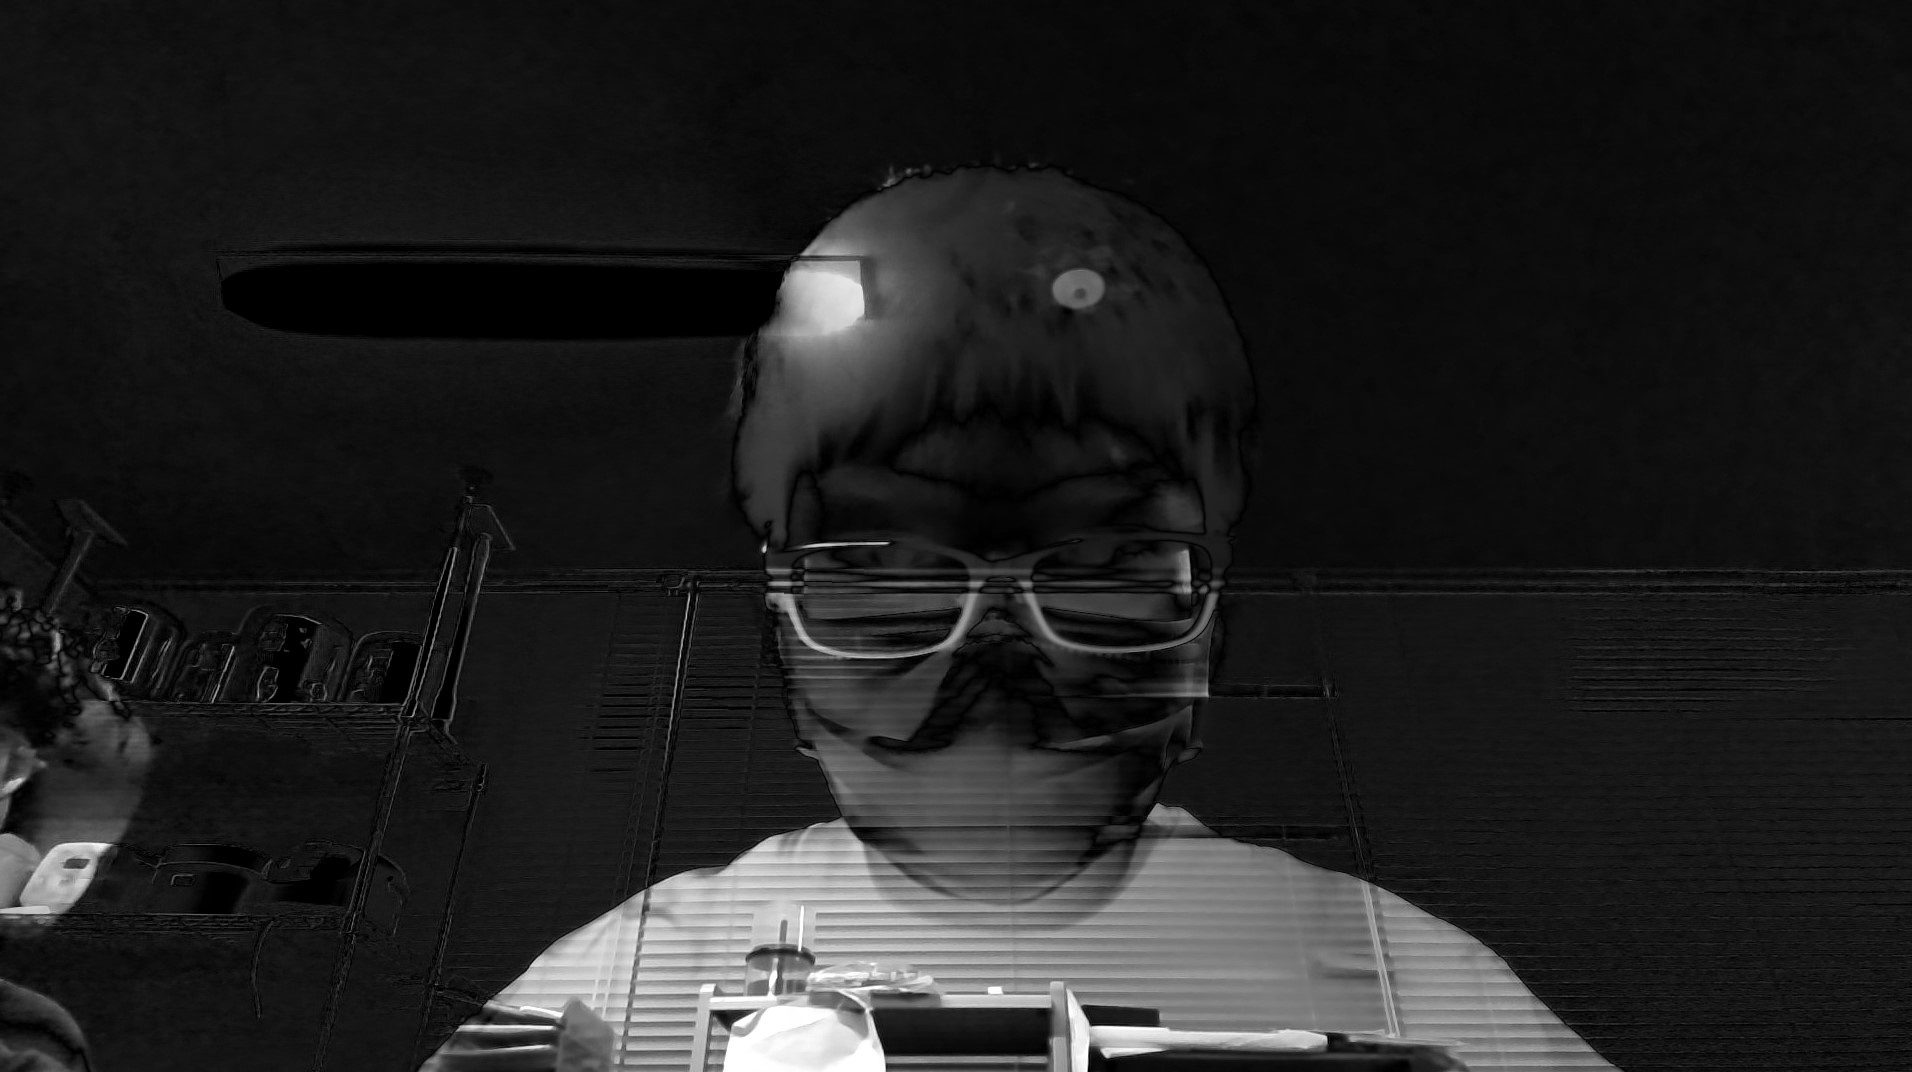
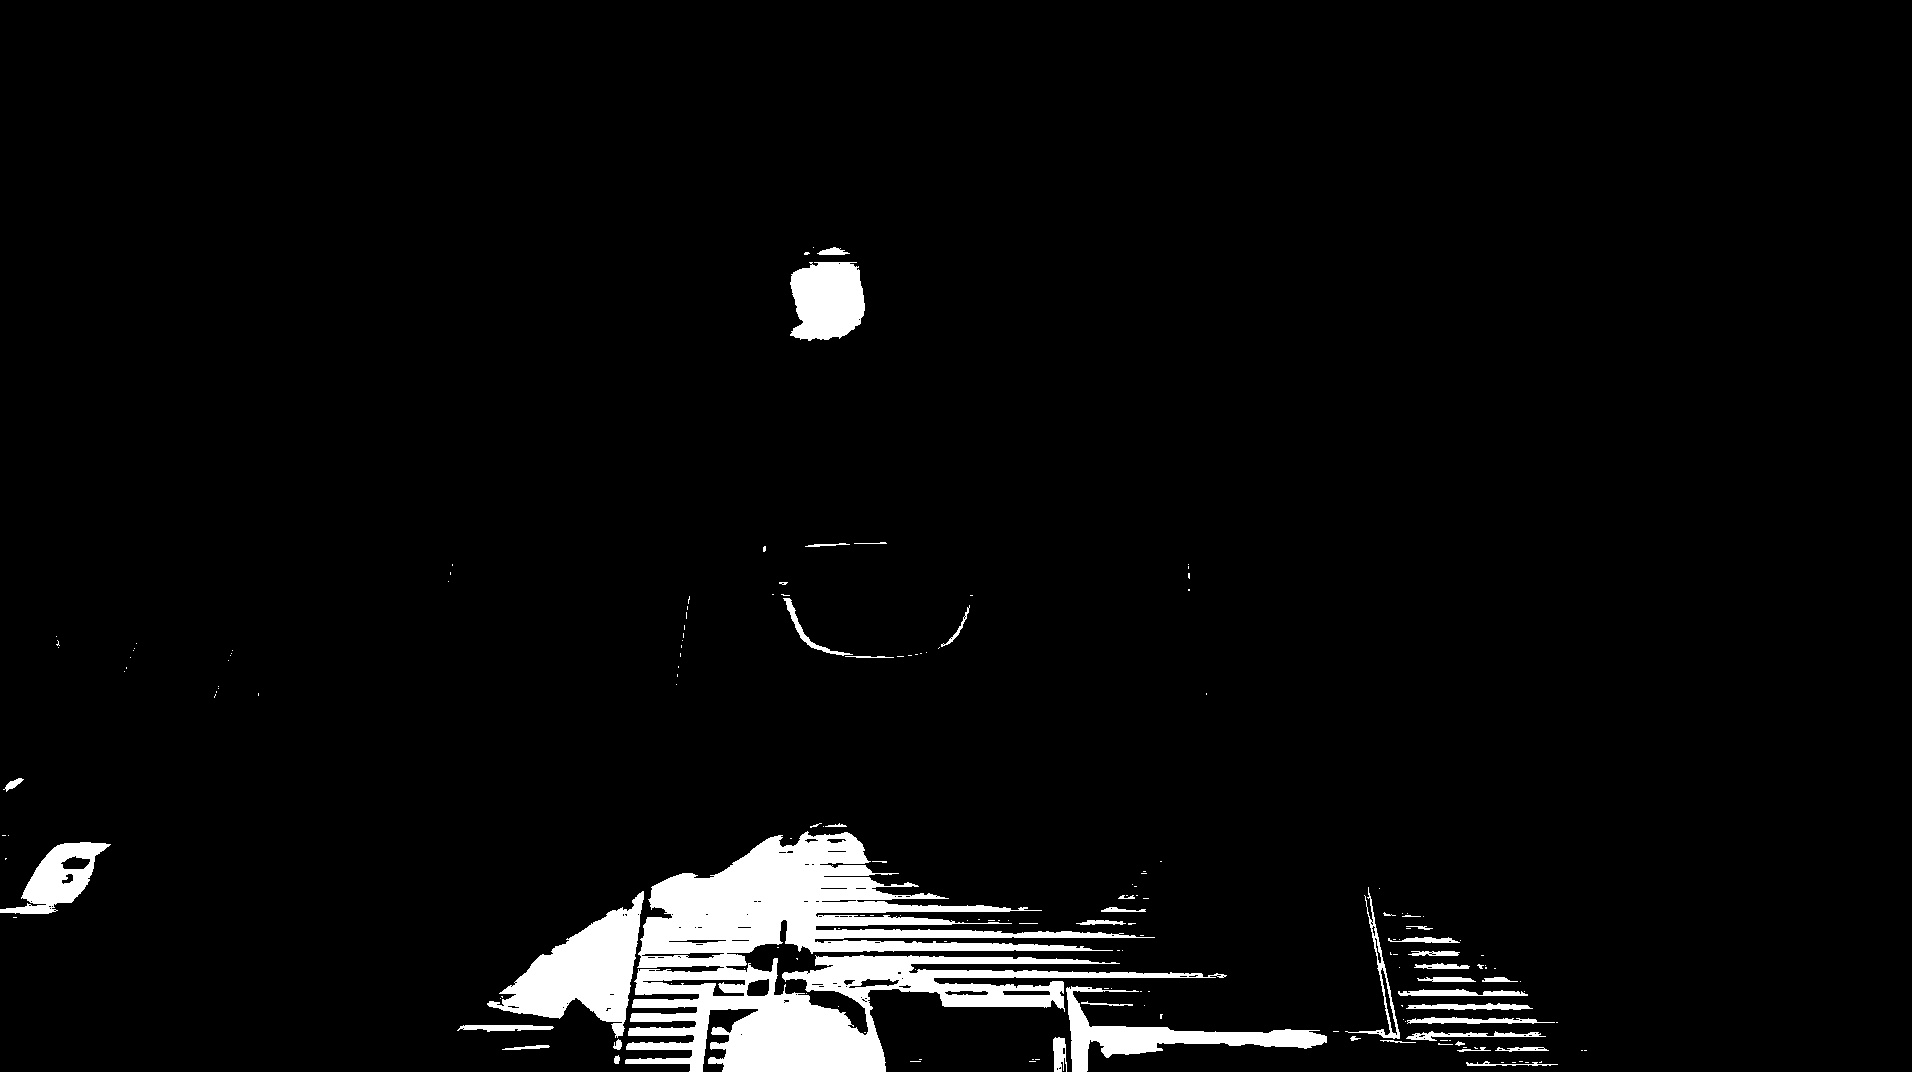
docker

Changed region(s): [[0.0, 0.1539, 1.0, 1.0], [0.1234, 0.2155, 0.3703, 0.2463], [0.5554, 0.4002, 0.5863, 0.4618]]

diff --git a/camera/sample.py b/camera/sample.py
@@ -2,25 +2,37 @@ import cv2
 import time
 import numpy as np
 
-cap = cv2.VideoCapture(0)
+# cap = cv2.VideoCapture(0)
+# if not cap.isOpened():
+#     print("Cannot open camera")
+#     exit()
 
-while True:
-    #ret,frame = cap.read()
-    #ret = cv2.imwrite('camera.jpg', frame)
+threshold = 150
 
-    img1 = cv2.imread("face.jpg", 0)
-    img2 = cv2.imread('back.jpg',0)
-    img_diff = cv2.absdiff(img1, img2)
+try:
+    while True:
+        # ret,frame = cap.read()
+        # cv2.imwrite('./camera/camera.jpg', frame)
 
-    #threshold = 100
+        # if not ret:
+        #     print("Can't receive frame")
+        #     break
 
-    #ret, img_thresh = cv2.threshold(img_diff, threshold, 255, cv2.THRESH_BINARY)
-    cv2.imwrite('sabun-result.jpg',img_diff)
+        img1 = cv2.imread("./camera/face.jpg", 0)
+        img2 = cv2.imread('./camera/back.jpg',0)
+        img_diff = cv2.absdiff(img1, img2)
 
-    key =cv2.waitKey(10)
-    if key == 27:
-        break
+        ret, img_thresh = cv2.threshold(img_diff, threshold, 255, cv2.THRESH_BINARY)
+        cv2.imwrite('./camera/sabun-result.jpg',img_thresh)
+        #cv2.imshow('Image', img_thresh)
+        pixel_number = np.size(img_thresh)
+        pixel_sum = np.sum(img_thresh)
+        while_pixel_number = pixel_sum/255
+        black_pixel_number = pixel_number - while_pixel_number
+        used_table = (while_pixel_number/pixel_number) * 100
+        print("使用率：",used_table)
+        time.sleep(10)
+except KeyboardInterrupt:
+    print('FINISH!')
 
-    time.sleep(10)
-
-cap.release()
+#cap.release()
